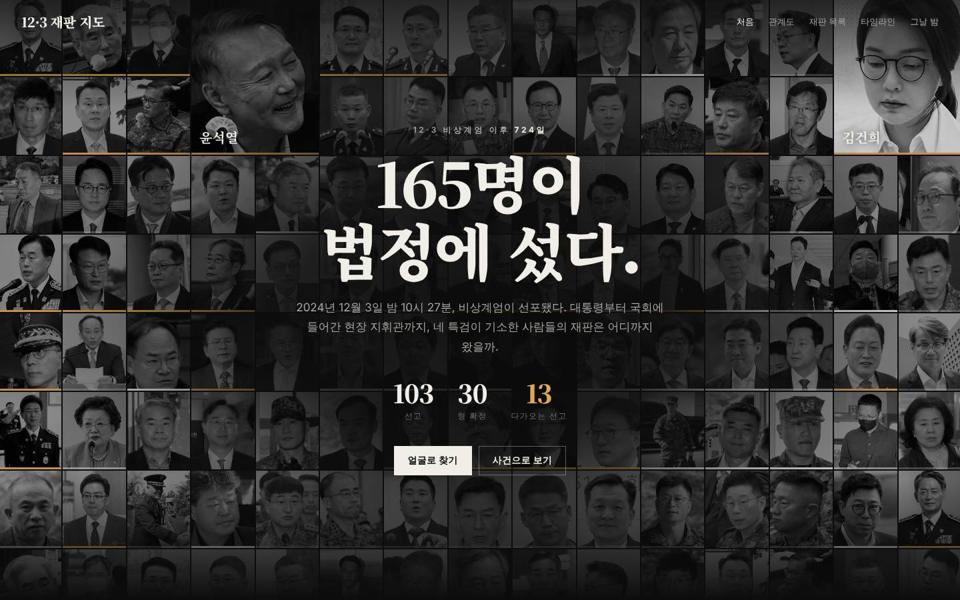
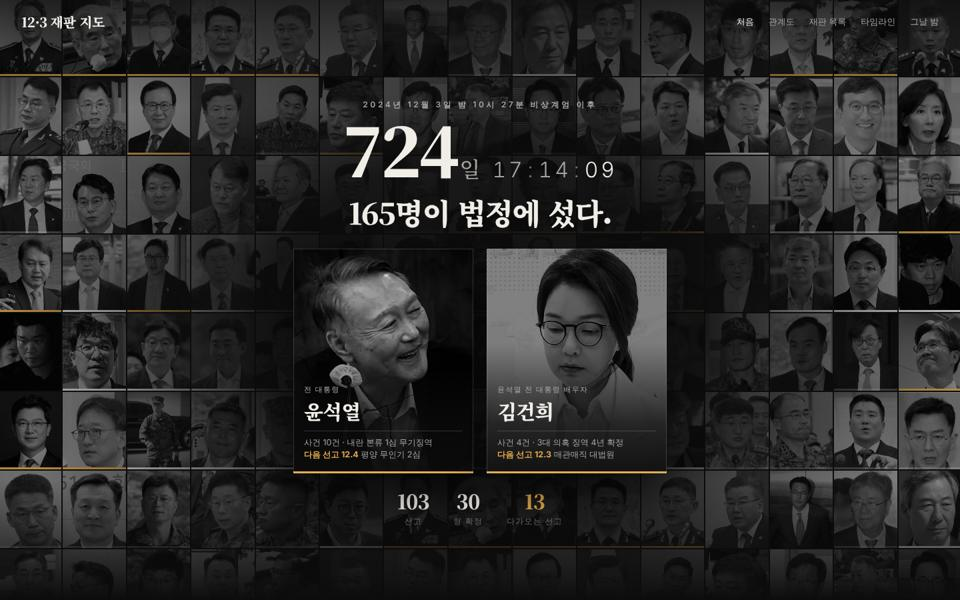
시안 2: 윤석열·김건희를 가운데 크게, 흐른 시간 함께 표시
Claude-Session: https://claude.ai/code/session_01SN42CiidXmnPBLY7TKBFnm

diff --git a/drafts/home-2.html b/drafts/home-2.html
@@ -20,7 +20,7 @@ body { margin: 0; background: var(--bg); color: var(--fg); font-family: var(--sa
 .bar nav span:first-child { color: var(--fg); }
 
 /* 얼굴 벽 */
-.wall { position: relative; height: 100svh; min-height: 640px; overflow: hidden; }
+.wall { position: relative; height: 100svh; min-height: 820px; overflow: hidden; }
 .grid { position: absolute; inset: -2px; display: grid; grid-template-columns: repeat(auto-fill, minmax(92px, 1fr)); grid-auto-rows: 116px; grid-auto-flow: dense; gap: 2px; }
 .t { position: relative; overflow: hidden; background: #18181a; }
 .t img { width: 100%; height: 100%; object-fit: cover; object-position: 50% 22%; filter: grayscale(1) contrast(1.08) brightness(.62); display: block; }
@@ -35,18 +35,40 @@ body { margin: 0; background: var(--bg); color: var(--fg); font-family: var(--sa
 .t.none { display: grid; place-items: center; font-family: var(--serif); font-size: 26px; color: #3a3a3d; }
 /* 가운데로 갈수록 어둡게 → 문장이 떠오름 */
 .veil { position: absolute; inset: 0; pointer-events: none;
-  background: radial-gradient(ellipse 46% 52% at 50% 52%, rgba(12,12,13,.95) 0%, rgba(12,12,13,.86) 42%, rgba(12,12,13,.35) 78%, rgba(12,12,13,.15) 100%),
+  background: radial-gradient(ellipse 50% 60% at 50% 54%, rgba(12,12,13,.96) 0%, rgba(12,12,13,.9) 46%, rgba(12,12,13,.42) 80%, rgba(12,12,13,.2) 100%),
               linear-gradient(180deg, rgba(12,12,13,.75) 0, rgba(12,12,13,0) 18%, rgba(12,12,13,0) 80%, var(--bg) 100%); }
-.hero { position: absolute; inset: 0; display: grid; place-items: center; text-align: center; padding: 0 24px; }
-.hero > div { max-width: 760px; }
+.hero { position: absolute; inset: 0; display: grid; place-items: center; text-align: center; padding: 72px 24px 32px; }
+.hero > div { width: min(100%, 860px); }
 .eyebrow { font-size: 12px; font-weight: 600; letter-spacing: .3em; color: var(--fg-2); }
 .eyebrow b { color: var(--fg); font-weight: 700; }
-.hero h1 { margin: 18px 0 0; font-family: var(--serif); font-size: clamp(44px, 6.4vw, 92px); font-weight: 900; line-height: 1.1; letter-spacing: -.04em; }
+/* 흐른 시간 */
+.clock { display: flex; justify-content: center; align-items: baseline; gap: 18px; margin-top: 12px; font-variant-numeric: tabular-nums; }
+.clock b { font-family: var(--serif); font-size: clamp(64px, 7vw, 104px); font-weight: 900; line-height: .9; letter-spacing: -.045em; }
+.clock b small { font-size: .32em; font-weight: 500; letter-spacing: 0; margin-left: 4px; color: var(--fg-2); }
+.clock span { font-size: clamp(22px, 2.3vw, 32px); font-weight: 300; letter-spacing: .12em; color: var(--fg-2); }
+.clock span i { font-style: normal; color: var(--fg-3); margin: 0 .12em; }
+.clock span em { font-style: normal; color: var(--fg); }
+.hero h1 { margin: 18px 0 0; font-family: var(--serif); font-size: clamp(30px, 3.2vw, 44px); font-weight: 900; line-height: 1.2; letter-spacing: -.035em; }
+/* 두 사람: 가운데 크게 */
+.duo { display: flex; justify-content: center; gap: 20px; margin-top: 28px; }
+.pf { position: relative; width: clamp(210px, 19vw, 270px); aspect-ratio: 4 / 5; overflow: hidden; background: #18181a; text-align: left;
+  box-shadow: 0 30px 60px rgba(0,0,0,.55); }
+.pf::after { content: ''; position: absolute; inset: 0; border: 1px solid rgba(241,238,232,.18); pointer-events: none; }
+.pf img { position: absolute; inset: 0; width: 100%; height: 100%; object-fit: cover; filter: grayscale(1) contrast(1.1) brightness(.9); }
+.pf .shade { position: absolute; inset: 0; background: linear-gradient(180deg, rgba(12,12,13,0) 42%, rgba(12,12,13,.78) 78%, rgba(12,12,13,.95) 100%); }
+.pf .lab { position: absolute; left: 0; right: 0; bottom: 0; padding: 16px 16px 18px; }
+.pf .lab small { display: block; font-size: 11px; letter-spacing: .12em; color: var(--fg-2); }
+.pf .lab b { display: block; margin-top: 2px; font-family: var(--serif); font-size: 30px; font-weight: 900; letter-spacing: -.03em; }
+.pf .lab span { display: block; margin-top: 8px; padding-top: 8px; border-top: 1px solid rgba(241,238,232,.18); font-size: 12.5px; line-height: 1.5; color: var(--fg-2); }
+.pf .lab span .long { display: inline; margin: 0; padding: 0; border: 0; font-size: inherit; color: inherit; }
+.pf .lab span em { font-style: normal; color: var(--amber); font-weight: 700; }
+.pf.k img { filter: grayscale(1) contrast(1.15) brightness(.5); } /* 원본이 밝은 사진: 두 사람 밝기 맞춤 */
+.pf .bar3 { position: absolute; left: 0; right: 0; bottom: 0; height: 3px; background: var(--amber); }
 .hero h1 em { font-style: normal; color: var(--fg); }
 .hero p { margin: 22px auto 0; max-width: 34em; font-size: 17px; line-height: 1.75; color: var(--fg-2); }
-.stats { display: flex; justify-content: center; gap: 36px; margin-top: 34px; }
+.stats { display: flex; justify-content: center; gap: 36px; margin-top: 26px; }
 .stats div { text-align: center; }
-.stats b { display: block; font-family: var(--serif); font-size: 38px; font-weight: 900; letter-spacing: -.03em; line-height: 1; }
+.stats b { display: block; font-family: var(--serif); font-size: 30px; font-weight: 900; letter-spacing: -.03em; line-height: 1; }
 .stats span { display: block; margin-top: 8px; font-size: 12px; letter-spacing: .1em; color: var(--fg-3); }
 .stats .next b { color: var(--amber); }
 .cta { display: flex; justify-content: center; gap: 10px; margin-top: 36px; }
@@ -76,9 +98,23 @@ body { margin: 0; background: var(--bg); color: var(--fg); font-family: var(--sa
   .t.big::before { display: none; }
   .veil { background: radial-gradient(ellipse 80% 46% at 50% 54%, rgba(12,12,13,.96) 0%, rgba(12,12,13,.86) 50%, rgba(12,12,13,.4) 85%, rgba(12,12,13,.2) 100%),
               linear-gradient(180deg, rgba(12,12,13,.75) 0, rgba(12,12,13,0) 14%, rgba(12,12,13,0) 82%, var(--bg) 100%); }
-  .hero h1 { font-size: 44px; }
-  .hero p { font-size: 15px; }
-  .stats { gap: 22px; } .stats b { font-size: 28px; }
+  .wall { height: auto; min-height: 0; }
+  .veil { background: linear-gradient(180deg, rgba(12,12,13,.72) 0, rgba(12,12,13,.86) 22%, rgba(12,12,13,.9) 60%, rgba(12,12,13,.82) 88%, var(--bg) 100%); }
+  .eyebrow { font-size: 11px; letter-spacing: .1em; }
+  .pf .lab span .long { display: none; }
+  .grid { position: absolute; }
+  .hero { position: relative; inset: auto; padding: 84px 16px 40px; }
+  .clock { flex-direction: column; align-items: center; gap: 6px; }
+  .clock b { font-size: 76px; }
+  .clock span { font-size: 22px; }
+  .hero h1 { font-size: 28px; }
+  .duo { gap: 10px; margin-top: 22px; }
+  .pf { width: calc(50% - 5px); }
+  .pf .lab { padding: 12px 10px 14px; }
+  .pf .lab b { font-size: 22px; }
+  .pf .lab small { letter-spacing: .04em; }
+  .pf .lab span { font-size: 11.5px; }
+  .stats { gap: 22px; } .stats b { font-size: 26px; }
   .below { grid-template-columns: 1fr; gap: 36px; padding: 28px 16px 48px; }
   .week { grid-template-columns: 1fr 1fr; }
   .card { min-height: 0; }
@@ -92,11 +128,16 @@ body { margin: 0; background: var(--bg); color: var(--fg); font-family: var(--sa
   <div class="grid" id="grid" aria-hidden="true"></div>
   <div class="veil"></div>
   <div class="hero"><div>
-    <div class="eyebrow">12·3 비상계엄 이후 <b>724일</b></div>
-    <h1><em>165명</em>이<br>법정에 섰다.</h1>
-    <p>2024년 12월 3일 밤 10시 27분, 비상계엄이 선포됐다. 대통령부터 국회에 들어간 현장 지휘관까지, 네 특검이 기소한 사람들의 재판은 어디까지 왔을까.</p>
+    <div class="eyebrow">2024년 12월 3일 밤 10시 27분 비상계엄 이후</div>
+    <div class="clock" id="clock" role="timer"><b>724<small>일</small></b><span>16<i>:</i>52<i>:</i><em>49</em></span></div>
+    <h1>165명이 법정에 섰다.</h1>
+    <div class="duo">
+      <div class="pf"><img src="../assets/clock-yoon.jpg" alt="" style="object-position:50% 25%"><div class="shade"></div>
+        <div class="lab"><small>전 대통령</small><b>윤석열</b><span><span class="long">사건 10건 · 내란 본류 1심 무기징역<br></span><em>다음 선고 12.4</em> 평양 무인기 2심</span></div><i class="bar3"></i></div>
+      <div class="pf k"><img src="../assets/clock-keon.jpg" alt="" style="object-position:50% 35%"><div class="shade"></div>
+        <div class="lab"><small>윤석열 전 대통령 배우자</small><b>김건희</b><span><span class="long">사건 4건 · 3대 의혹 징역 4년 확정<br></span><em>다음 선고 12.3</em> 매관매직 대법원</span></div><i class="bar3"></i></div>
+    </div>
     <div class="stats"><div><b>103</b><span>선고</span></div><div><b>30</b><span>형 확정</span></div><div class="next"><b>13</b><span>다가오는 선고</span></div></div>
-    <div class="cta"><span>얼굴로 찾기</span><span>사건으로 보기</span></div>
   </div></div>
 </section>
 <section class="below">
@@ -133,16 +174,20 @@ body { margin: 0; background: var(--bg); color: var(--fg); font-family: var(--sa
   const next = p => p.records.some(r => (r.stages || []).some(s => /선고 예정/.test(s[0] || '') && ((s[2] || '').match(/\d{4}\.\d{2}\.\d{2}/) || [''])[0] >= today));
   const hash = s => [...s].reduce((h, c) => (h * 31 + c.charCodeAt(0)) >>> 0, 7);
   const ppl = persons.filter(p => p.photo || PHOTO[p.id]).sort((a, b) => hash(a.id) - hash(b.id));
-  // 두 사람은 크게, 화면 위쪽 양옆에 오도록 순서 조정
+  // 두 사람은 가운데 크게 나오므로 벽에서는 뺌
   const pick = id => ppl.splice(ppl.findIndex(p => p.id === id), 1)[0];
   const yoon = pick('yoon'), keon = pick('keon');
-  ppl.splice(3, 0, yoon); ppl.splice(12, 0, keon);
   const tile = p => `<div class="t${p === yoon || p === keon ? ' big' : ''}" data-s="${level(p)}"${next(p) ? ' data-next' : ''} data-name="${p.name}"><img src="../assets/${PHOTO[p.id] || p.photoFile || p.id + '.jpg'}" alt="" loading="lazy" style="${p.photoPosition ? 'object-position:' + p.photoPosition : ''}"></div>`;
   // 화면을 다 채울 만큼 되풀이 (두 번째부터는 큰 칸 없이)
   let html = ppl.map(tile).join('');
   const rest = ppl.filter(p => p !== yoon && p !== keon);
-  for (let k = 0; k < 2; k++) html += rest.map(tile).join('');
+  for (let k = 0; k < 3; k++) html += rest.map(tile).join('');
   document.getElementById('grid').innerHTML = html;
+  // 흐른 시간 (1초마다)
+  const START = Date.parse('2024-12-03T22:27:00+09:00'), pad = n => String(n).padStart(2, '0'), clock = document.getElementById('clock');
+  const tick = () => { let s = Math.floor((Date.now() - START) / 1000); const d = Math.floor(s / 86400); s %= 86400; const h = Math.floor(s / 3600); s %= 3600; const m = Math.floor(s / 60); s %= 60;
+    clock.innerHTML = `<b>${d.toLocaleString('ko-KR')}<small>일</small></b><span>${pad(h)}<i>:</i>${pad(m)}<i>:</i><em>${pad(s)}</em></span>`; clock.setAttribute('aria-label', `${d}일 ${h}시간 ${m}분 지났습니다`); };
+  tick(); setInterval(tick, 1000);
 })();
 </script>
 </body>
